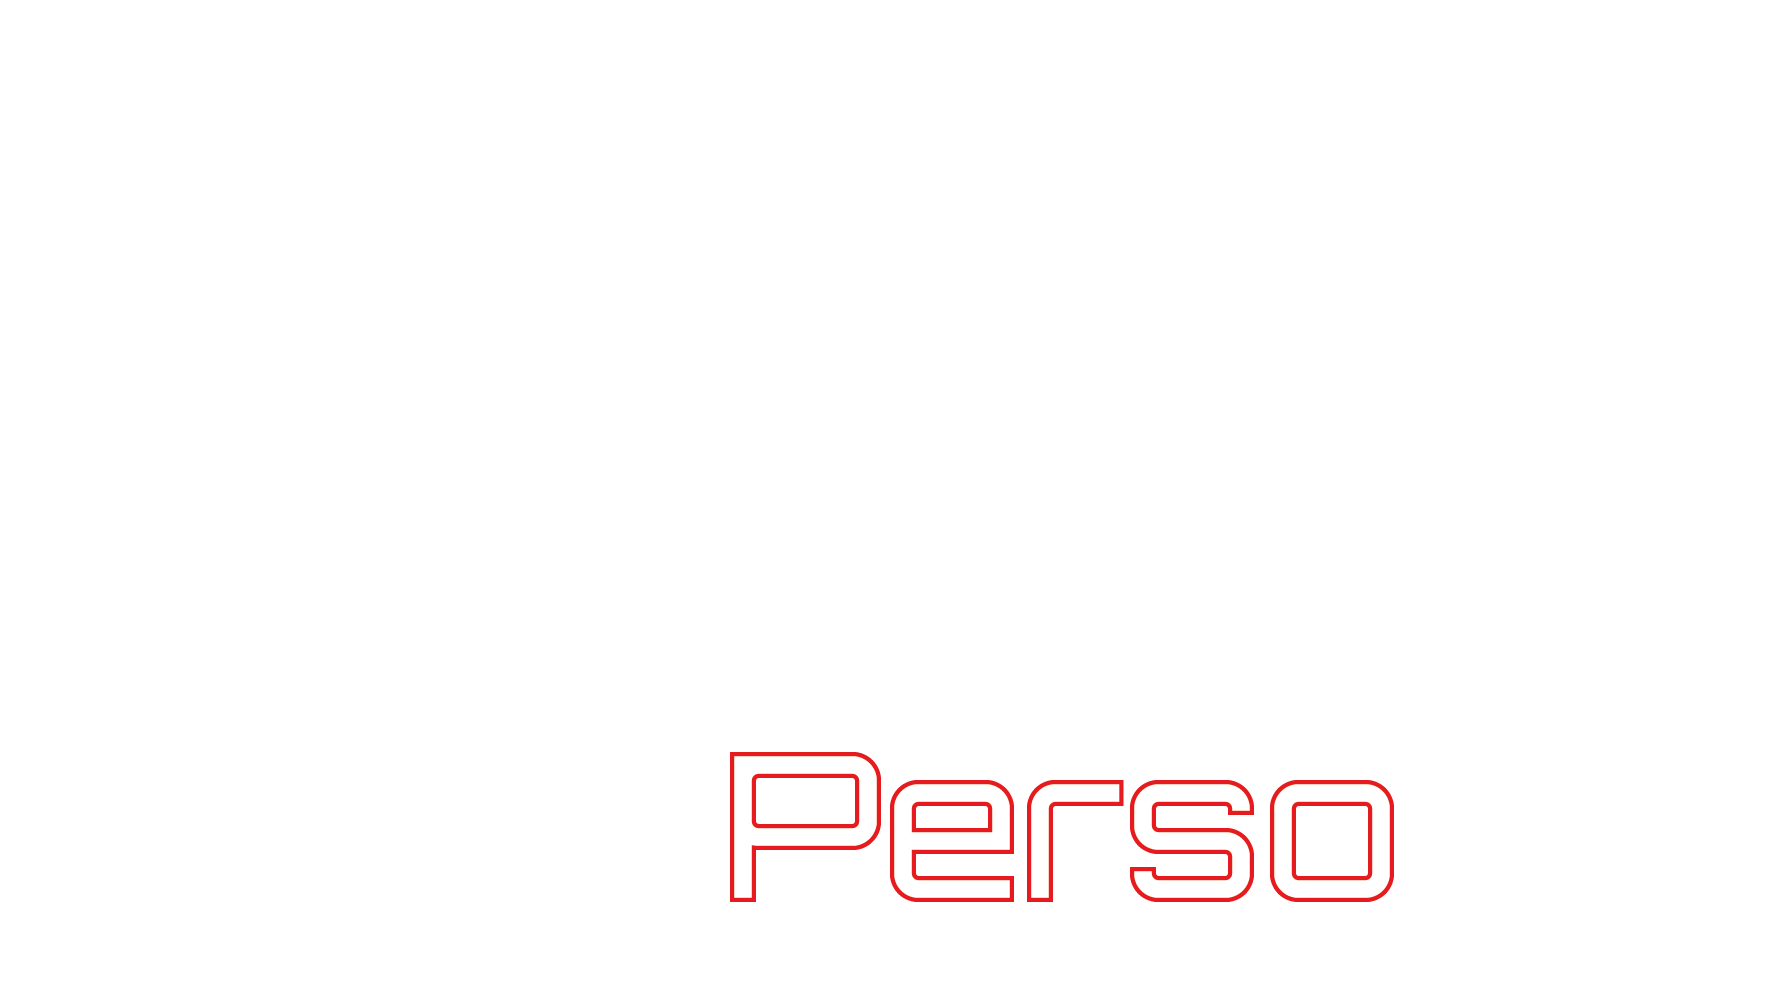
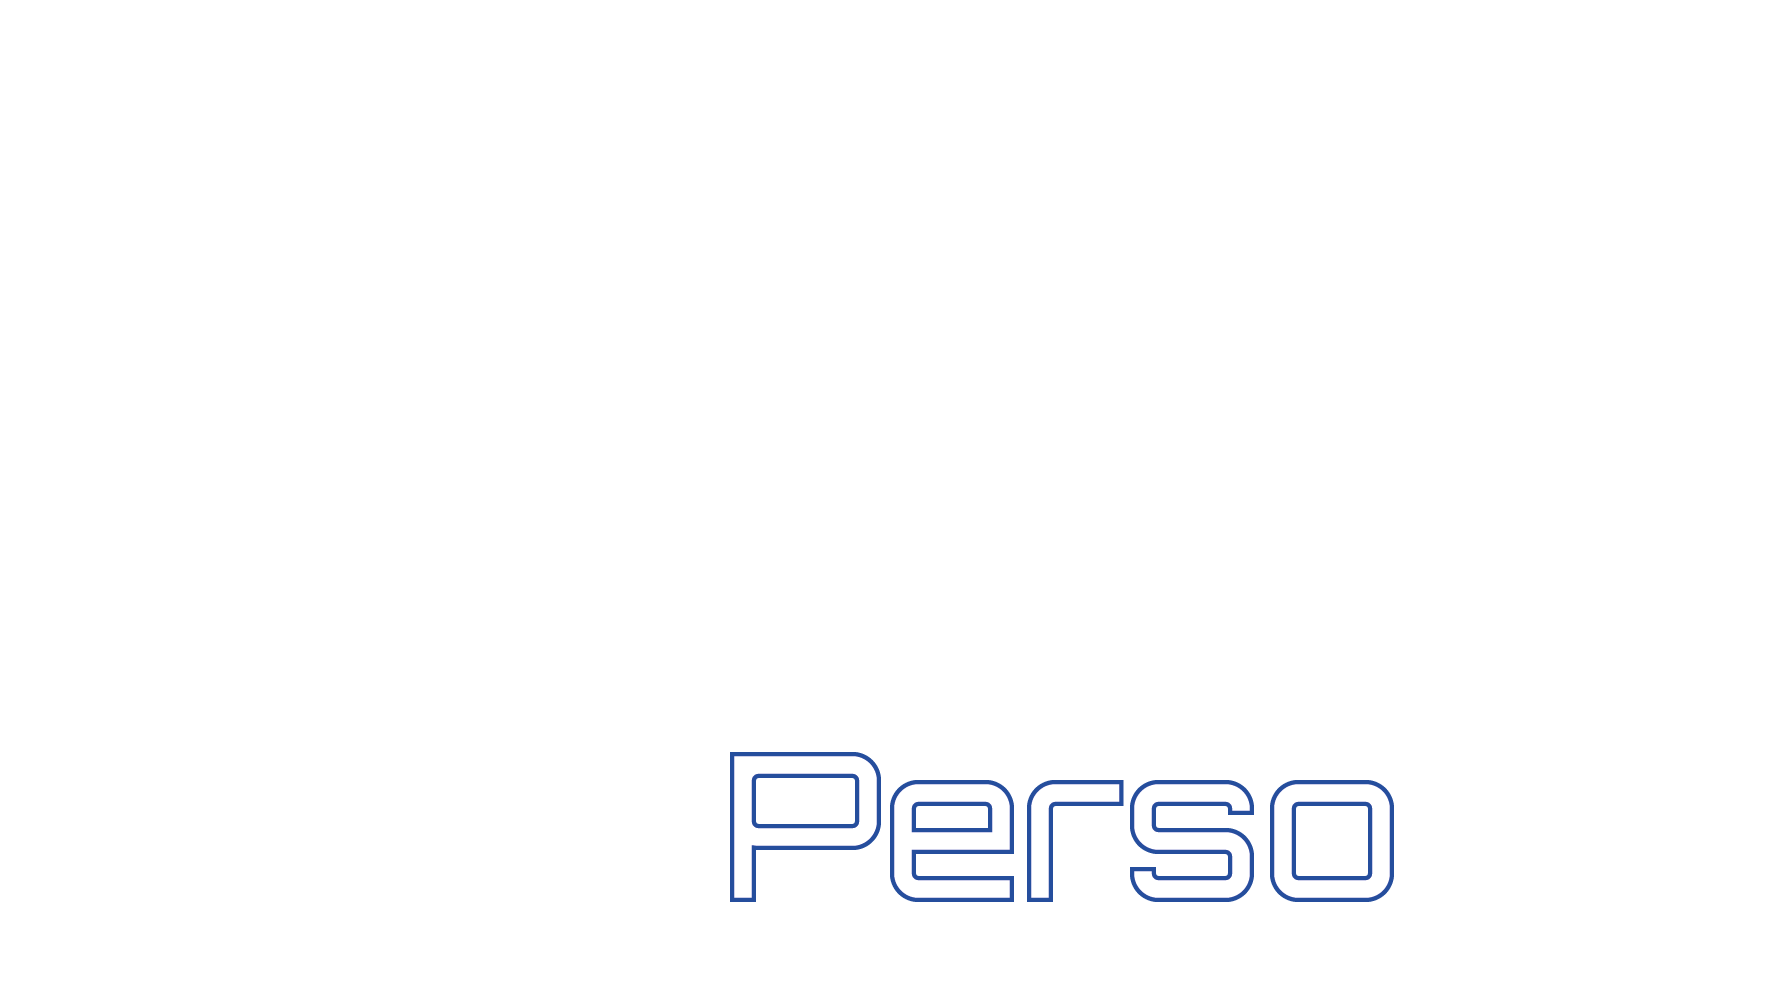
changements de forme
charte chromatique revisitée
centrage des éléments du menu

Changed region(s): [[0.4046, 0.7477, 0.8093, 0.9035]]

diff --git a/deco.css b/deco.css
@@ -6,7 +6,7 @@ font-family:'Orbitron', sans-serif ;
 
 #bandeau {
     font-family: 'Orbitron', sans-serif;
-    color: crimson;
+    color: rgb(19, 89, 196);
     font-size: 300%;
     text-shadow: 2px 2px 2px white ;
     text-transform: uppercase;
@@ -14,7 +14,7 @@ font-family:'Orbitron', sans-serif ;
 }
 
 body {
-    background-image: radial-gradient(circle at center, #B5670C, black );
+    background-color: black;
     color
 }
 
@@ -37,10 +37,13 @@ body {
 }
 .contacts{
     width: 200px;
+    
 }
 .icônes{
 display: grid;
 grid-template-columns: repeat(4, 1fr);
+justify-items: center;
+align-items: center;
 
 }
 .qui {
